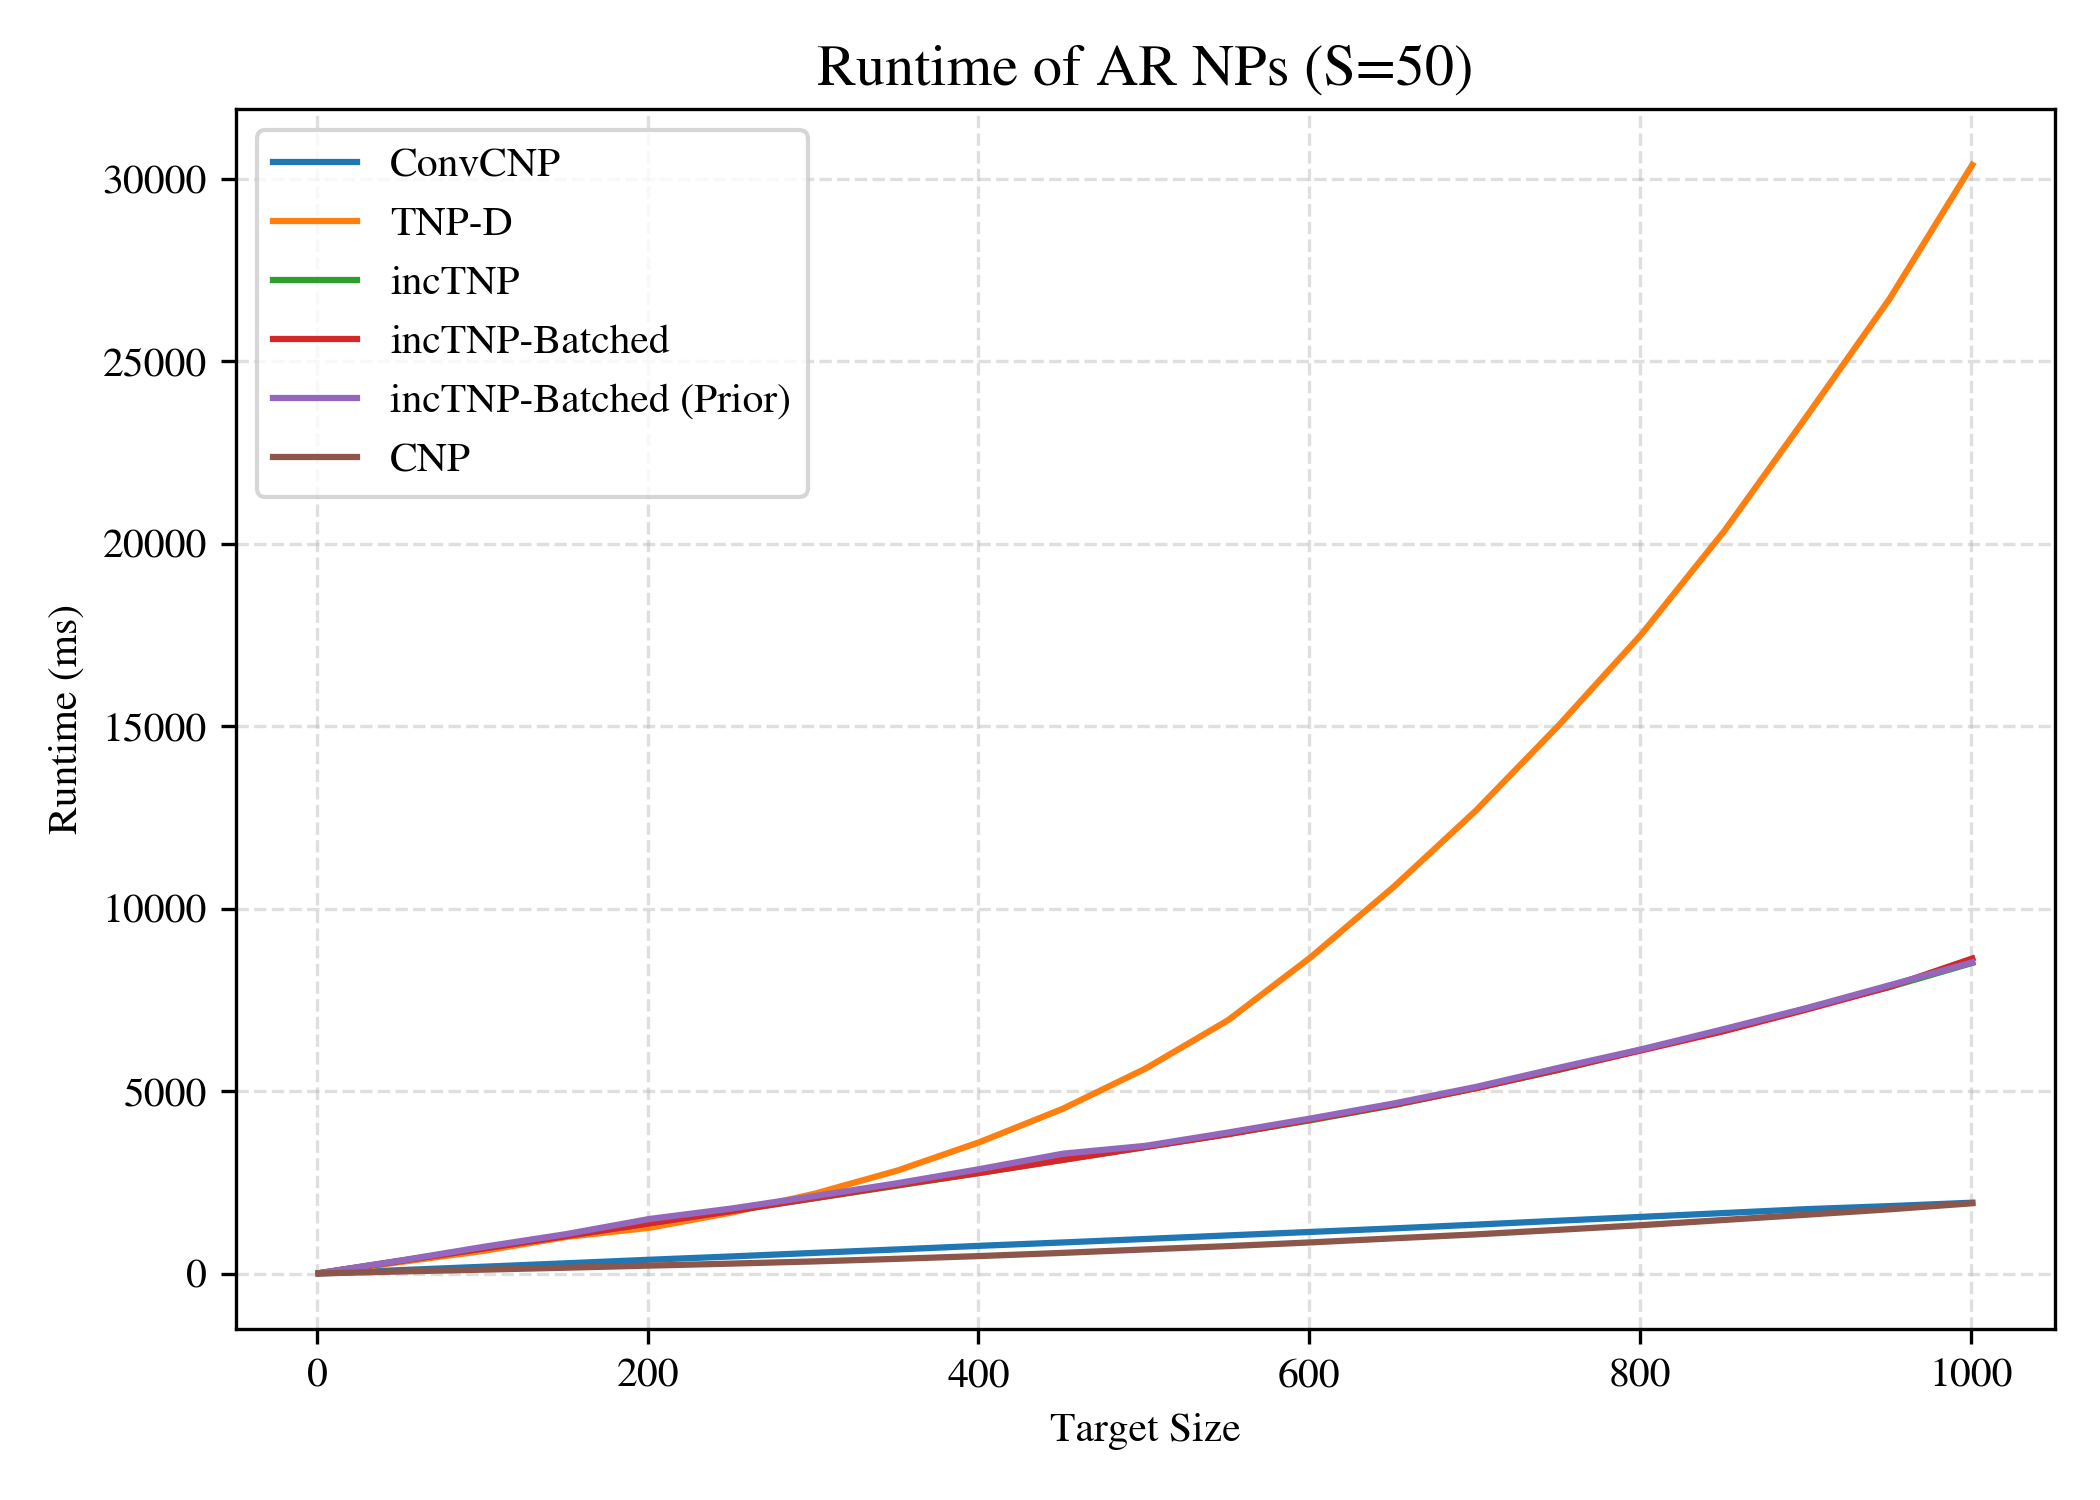
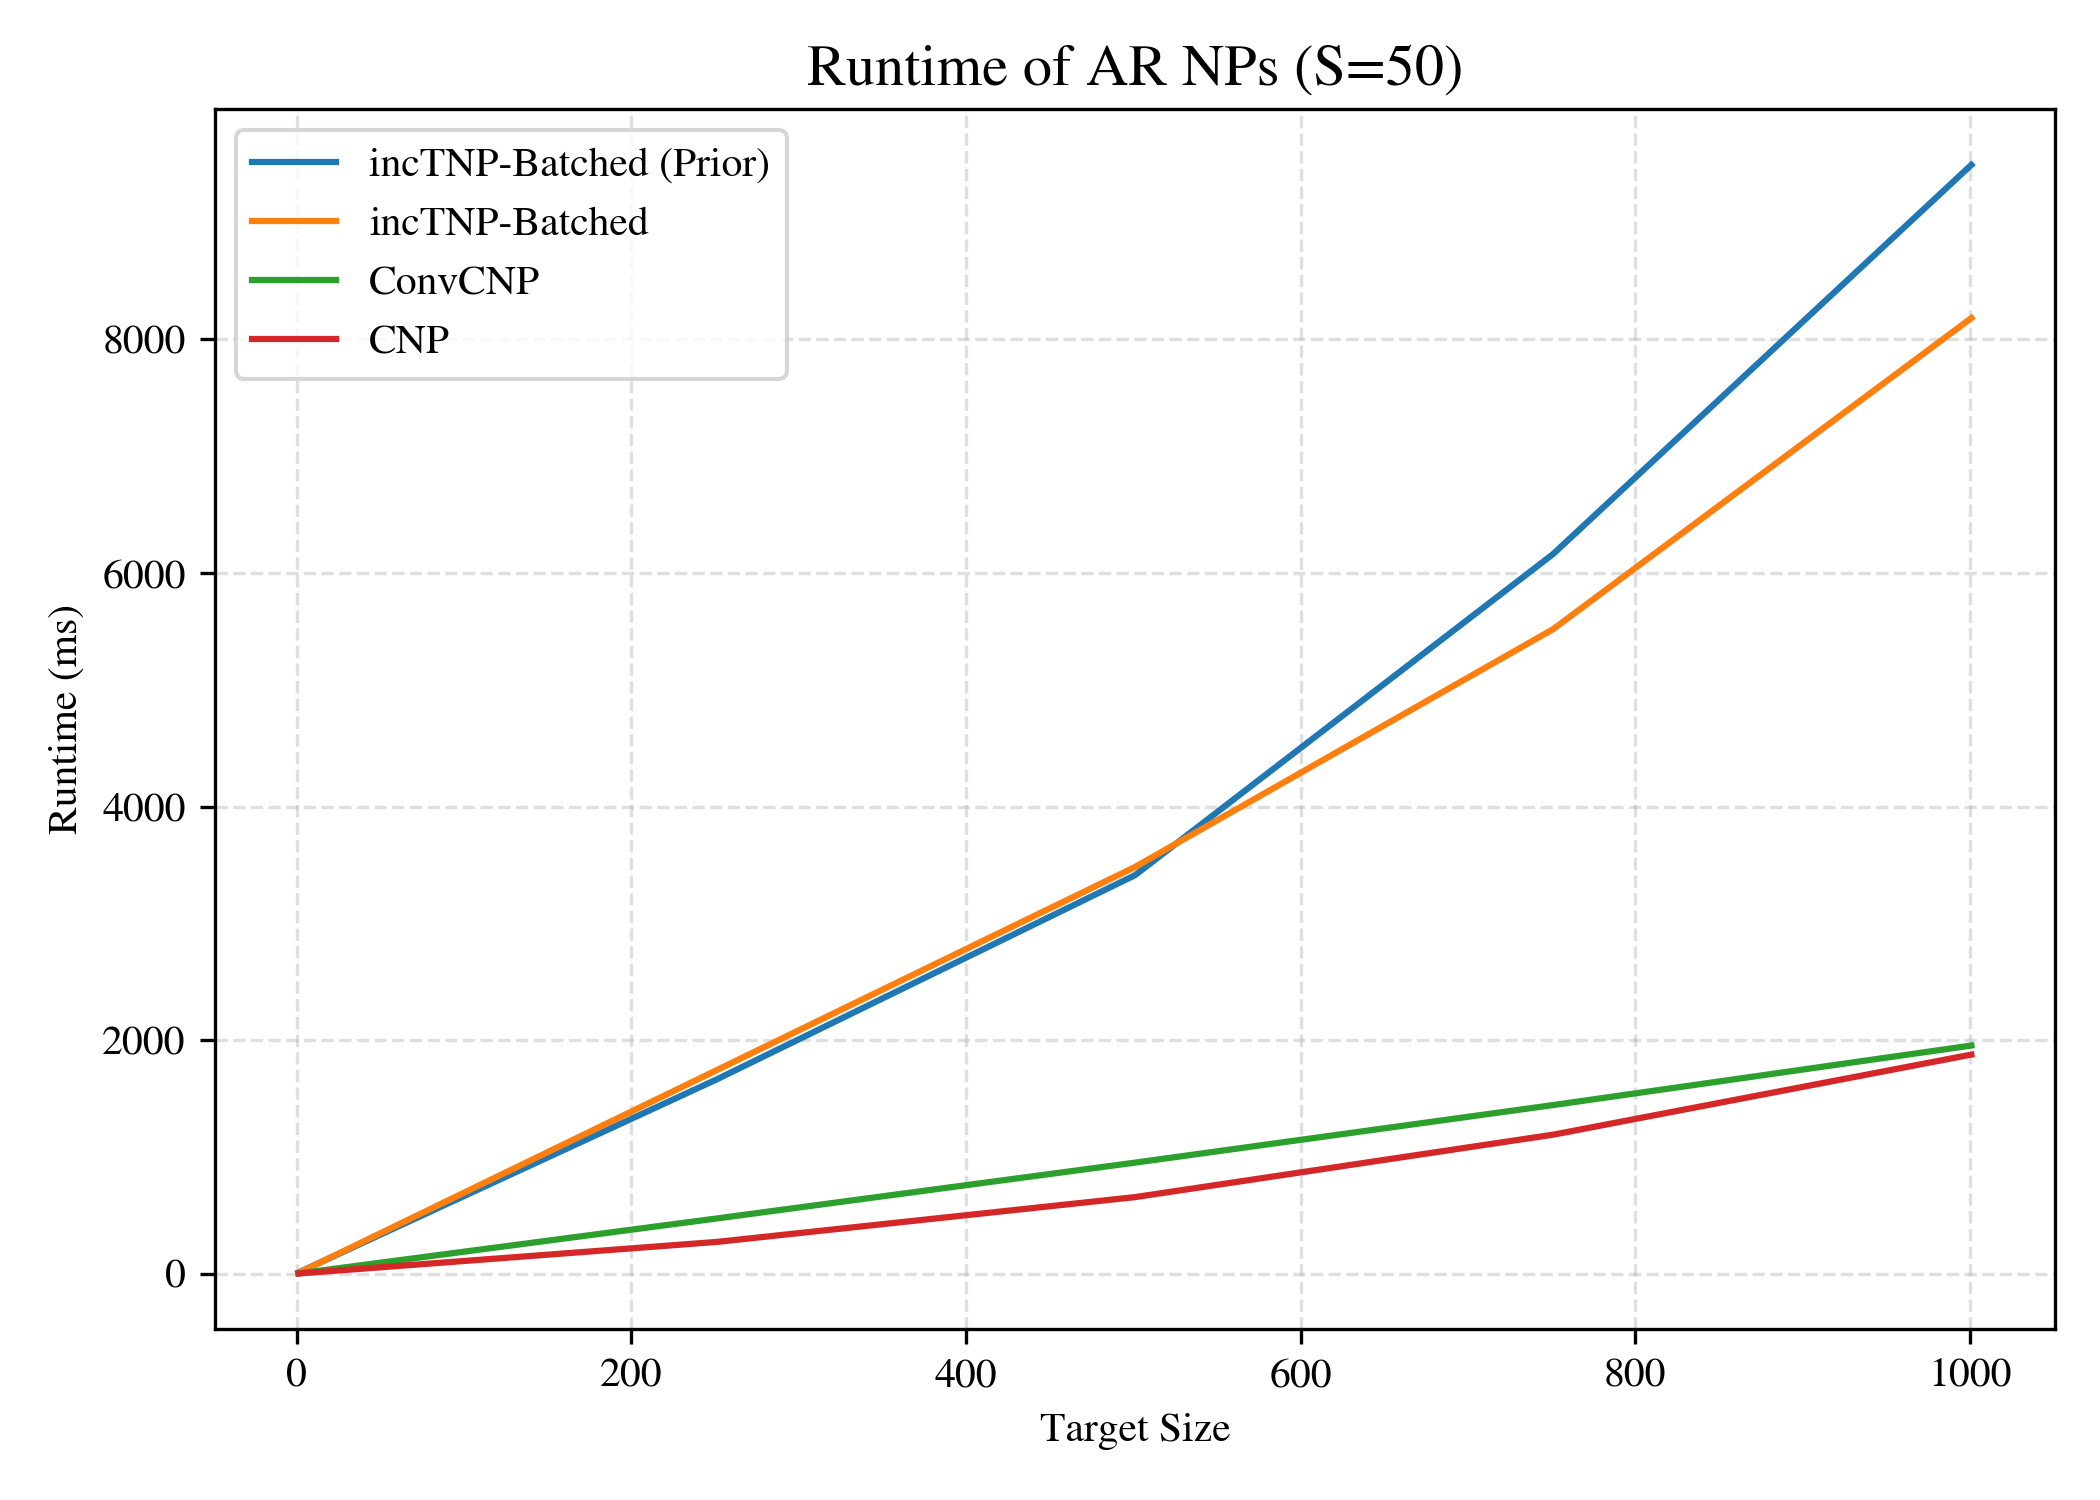
Adding caching

diff --git a/experiments/arnp.py b/experiments/arnp.py
@@ -7,7 +7,7 @@ from torch import nn
 from typing import Optional, Union, Literal, Callable, Tuple
 from tnp.utils.np_functions import np_pred_fn
 from tnp.data.base import Batch
-from tnp.models.incUpdateBase import IncUpdateEff
+from tnp.models.incUpdateBase import IncUpdateEff, IncUpdateEffFixed
 from plot_adversarial_perms import get_model
 from tnp.data.gp import RandomScaleGPGenerator
 from tnp.networks.gp import RBFKernel
@@ -106,6 +106,7 @@ def ar_loglik(np_model: nn.Module, xc: torch.Tensor, yc: torch.Tensor, xt: torch
 def ar_predict(model, xc: torch.Tensor, yc: torch.Tensor, xt: torch.Tensor,
     order: Literal["random", "given", "left-to-right", "variance"] = "random",
     num_samples: int = 10,
+    prioritise_fixed: bool = False, # If incremental updates are available prioritise fixed or true dynamic algorithm
     device: str = "cuda", # Device for computing
     device_ret: str = "cpu", # Return device
     ):
@@ -121,15 +122,24 @@ def ar_predict(model, xc: torch.Tensor, yc: torch.Tensor, xt: torch.Tensor,
 
     yt_preds_mean, yt_preds_std = torch.empty((m * num_samples, nt, dy), device=device), torch.empty((m * num_samples, nt, dy), device=device)
 
-    is_inc_update = isinstance(model, IncUpdateEff)
-    if is_inc_update:
+    is_fixed_inc_update = isinstance(model, IncUpdateEffFixed)
+    is_inc_gen_update = isinstance(model, IncUpdateEff)
+    is_fixed_inc_update = (is_fixed_inc_update and prioritise_fixed) or (is_fixed_inc_update and not is_inc_gen_update)
+    is_inc_gen_update = (is_inc_gen_update and  not prioritise_fixed) or (is_inc_gen_update and not is_fixed_inc_update)
+    assert is_fixed_inc_update != is_inc_gen_update or (not is_fixed_inc_update and not is_inc_gen_update), "Xor onf fixed vs inc update"
+    if is_inc_gen_update:
         model.init_inc_structs(m=xc_stacked.shape[0], max_nc=nc+nt, device=device)
         model.update_ctx(xc=xc_stacked, yc=yc_stacked)
+    elif is_fixed_inc_update:
+        model.init_inc_structs_fixed(m=xc_stacked.shape[0], max_nc=nc+nt, device=device)
+        model.update_ctx_fixed(xc=xc_stacked, yc=yc_stacked)
 
     for i in range(nt):
         xt_tmp = xt_stacked[:, i:i+1,:]
-        if is_inc_update:
+        if is_inc_gen_update:
             pred_dist = model.query(xt=xt_tmp, dy=dy)
+        elif is_fixed_inc_update:
+            pred_dist = model.query_fixed(xt=xt_tmp, dy=dy)
         else:
             batch = Batch(xc=xc_stacked, yc=yc_stacked, xt=xt_tmp, yt=None, x=None, y=None)
             pred_dist = np_pred_fn(model, batch)
@@ -140,8 +150,10 @@ def ar_predict(model, xc: torch.Tensor, yc: torch.Tensor, xt: torch.Tensor,
         # Samples from the predictive distribution and updates the context
         if i < nt - 1:
             yt_sampled = pred_dist.sample() # [m * num_samples, 1, dy]
-            if is_inc_update:
+            if is_inc_gen_update:
                 model.update_ctx(xc=xt_tmp, yc=yt_sampled)
+            elif is_fixed_inc_update:
+                model.update_ctx_fixed(xc=xt_tmp, yc=yt_sampled)
             else:
                 xc_stacked = torch.cat((xc_stacked, xt_tmp), dim=1)
                 yc_stacked = torch.cat((yc_stacked, yt_sampled), dim=1)
@@ -173,13 +185,14 @@ def measure_perf_timings():
     # Measure hypers
     burn_in = 1 # Number of burn in runs to ignore
     aggregate_over = 1 # Number of runs to aggregate data over
-    token_step = 50 # How many increments of tokens to go up in
-    min_nt, max_nt = 1, 1002
+    token_step = 1_000 # How many increments of tokens to go up in
+    min_nt, max_nt = 1_000, 10_002
     dx, dy, m = 1, 1, 1
     nc_start = 1
     num_samples=50 # Samples to unroll in ar_predict
     device = "cuda"
     order="random"
+    prioritise_fixed = True
     plot_name_folder = "experiments/plot_results/ar/perf/"
     # End of measure hypers
     models = get_model_list()
@@ -203,7 +216,7 @@ def measure_perf_timings():
                 starter.record()
                 with torch.no_grad():
                     pred_dist = ar_predict(model=model, xc=xc, yc=yc, xt=xt, order=order, num_samples=num_samples,
-                        device=device, device_ret=device)
+                        device=device, device_ret=device, prioritise_fixed=prioritise_fixed)
                 # Measures time and memory
                 ender.record()
                 torch.cuda.synchronize()
@@ -309,7 +322,8 @@ def get_model_list():
         'pm846-university-of-cambridge/cnp-rbf-rangesame/model-uywfyrx7:v200', 'CNP')
     conv_cnp = ('experiments/configs/synthetic1dRBF/gp_convcnp_rangesame.yml',
         'pm846-university-of-cambridge/convcnp-rbf-rangesame/model-uj54q1ya:v200', 'ConvCNP')
-    models = [conv_cnp, tnp_plain, incTNP, batchedTNP, priorBatched, cnp]
+    models = [tnp_plain, incTNP, batchedTNP, priorBatched, conv_cnp, cnp]
+    models = [priorBatched, tnp_plain, batchedTNP, conv_cnp, cnp]
     return models
 
 # Compares NP models in AR mode on RBF set

diff --git a/tnp/models/incTNPBatchedPrior.py b/tnp/models/incTNPBatchedPrior.py
@@ -12,7 +12,7 @@ from .tnp import TNPDecoder
 from ..utils.helpers import preprocess_observations
 from ..networks.kv_cache import init_kv_cache
 from ..networks.kv_cache_fixed import init_kv_cache_fixed
-from .incUpdateBase import IncUpdateEff
+from .incUpdateBase import IncUpdateEff, IncUpdateEffFixed
 import torch.distributions as td
 
 
@@ -154,7 +154,7 @@ class IncTNPBatchedEncoderPrior(nn.Module):
 
 
 
-class IncTNPBatchedPrior(BatchedCausalTNPPrior, IncUpdateEff):
+class IncTNPBatchedPrior(BatchedCausalTNPPrior, IncUpdateEff, IncUpdateEffFixed):
     def __init__(
         self,
         encoder: IncTNPBatchedEncoderPrior,
@@ -165,7 +165,7 @@ class IncTNPBatchedPrior(BatchedCausalTNPPrior, IncUpdateEff):
 
 
     # Logic for effecient incremental context updates
-    def init_inc_structs_fixed(self, m: int, max_nc: int, device: str):
+    def init_inc_structs_fixed(self, m: int, max_nc: int, xc: torch.Tensor, yc: torch.Tensor, xt:torch.Tensor, device: str):
     #    # Adds empty token
         start_token = self.encoder.empty_token.expand(m, -1, -1)
         dz = start_token.shape[2]
@@ -176,6 +176,7 @@ class IncTNPBatchedPrior(BatchedCausalTNPPrior, IncUpdateEff):
         self.kv_cache_inc = init_kv_cache_fixed(layers=layers, batch_size=m, max_nc=max_nc+1, dz=dz, 
             heads=heads, k_dim=head_dim, v_dim=head_dim, device=device)
         self.encoder.transformer_encoder.encode_context_fixedkv(start_token, self.kv_cache_inc)
+
 
 
     # Adds new context points

diff --git a/tnp/models/incUpdateBase.py b/tnp/models/incUpdateBase.py
@@ -3,9 +3,7 @@ from abc import ABC, abstractmethod
 import torch
 import torch.distributions as td
 
-# This is the class for effecient incremental updates. It requires specification of knowledge of various known maximums.
-# Incremental updating has been implemented for any size context, but this effecient version is just to make it even faster 
-# for certain cases. Big O still the same and generic version tested. This is used for stuff like AR mode to make gains on small ctx
+# General inc updates
 class IncUpdateEff(ABC):
     @abstractmethod
     def init_inc_structs(self, m: int, max_nc: int, device: str):
@@ -19,6 +17,10 @@ class IncUpdateEff(ABC):
     def query(self, xt: torch.Tensor, dy: int) -> td.Normal:
         raise NotImplementedError
 
+
+# This is the class for effecient incremental updates. It requires specification of knowledge of various known maximums.
+# Incremental updating has been implemented for any size context, but this effecient version is just to make it even faster 
+# for certain cases. Big O still the same and generic version tested. This is used for stuff like AR mode to make gains on small ctx
 class IncUpdateEffFixed(ABC):
     @abstractmethod
     def init_inc_structs_fixed(self, m: int, max_nc: int, device: str):
